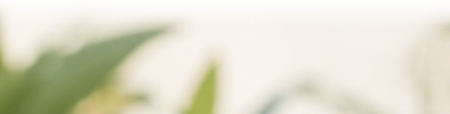
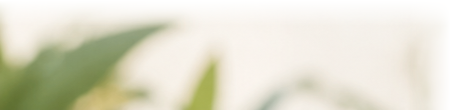
feat(movemeantnow): polish hero section with seamless portrait blend, typography & responsive layout

Changed region(s): [[0.9333, 0.1364, 1.0, 1.0], [0.2178, 0.2182, 0.3733, 0.3818]]

diff --git a/src/app/movemeantnow/MovemeantClient.tsx b/src/app/movemeantnow/MovemeantClient.tsx
@@ -202,18 +202,18 @@ export default function MovemeantClient() {
   };
 
   return (
-    <div className="min-h-screen bg-white text-[#18191B] selection:bg-[#D4CF50] selection:text-[#14170E] antialiased">
+    <div className="min-h-screen bg-white text-[#18191B] selection:bg-[#D4CF50] selection:text-[#14170E] antialiased overflow-x-hidden w-full max-w-[100vw]">
       {/* =========================================================================
           1. TOP ANNOUNCEMENT BANNER (Pixel-Accurate Olive/Moss Strip)
       ========================================================================= */}
       <aside
         onClick={() => handleOpenConsultation("threshold")}
-        className="w-full bg-[#DAD554] text-[#1E2413] py-2 px-4 text-center font-medium text-xs sm:text-[13px] tracking-normal transition-colors hover:bg-[#D2CE4F] cursor-pointer select-none"
+        className="w-full bg-[#DAD554] text-[#1E2413] py-2 px-3 sm:px-4 text-center font-medium text-[11px] sm:text-[13px] tracking-normal transition-colors hover:bg-[#D2CE4F] cursor-pointer select-none"
         aria-label="Cohort Enrollment Announcement"
       >
-        <div className="mx-auto flex max-w-7xl items-center justify-center gap-1.5">
+        <div className="mx-auto flex max-w-7xl items-center justify-center gap-1.5 flex-wrap">
           <span>Now Enrolling: Sept 29 Live Cohort | ICF + CCNI Accredited | $97 Introductory Rate</span>
-          <span className="font-semibold text-sm leading-none">→</span>
+          <span className="font-semibold text-sm leading-none shrink-0">→</span>
         </div>
       </aside>
 
@@ -225,14 +225,14 @@ export default function MovemeantClient() {
           {/* Movemeant Logo */}
           <Link
             href="/movemeantnow"
-            className="relative block h-11 w-40 sm:h-14 sm:w-52 focus-visible:outline-none focus-visible:ring-2 focus-visible:ring-[#8E8A24] rounded-sm transition-transform active:scale-[0.99]"
+            className="relative block h-10 w-36 sm:h-12 sm:w-48 focus-visible:outline-none focus-visible:ring-2 focus-visible:ring-[#8E8A24] rounded-sm transition-transform active:scale-[0.99]"
             aria-label="Movemeant Coaching and Consultancy Home"
           >
             <Image
               src="/assets/movemeant/logo.png"
               alt="Movemeant Coaching & Consultancy Logo"
               fill
-              sizes="(max-width: 640px) 160px, 210px"
+              sizes="(max-width: 640px) 150px, 200px"
               priority
               className="object-contain object-left"
             />
@@ -240,12 +240,12 @@ export default function MovemeantClient() {
 
           {/* Desktop Navigation Links */}
           <nav
-            className="hidden lg:flex items-center gap-8 text-[13px] font-bold tracking-wider uppercase text-[#222426]"
+            className="hidden lg:flex items-center gap-8 xl:gap-9 text-[13px] font-bold tracking-wider uppercase text-[#222426]"
             aria-label="Primary Navigation"
           >
             <Link
               href="/movemeantnow"
-              className="relative text-[#8E8A24] pb-1 transition-colors after:absolute after:bottom-0 after:left-0 after:right-0 after:h-[2.5px] after:bg-[#8E8A24]"
+              className="relative text-[#8E8A24] pb-1.5 transition-colors after:absolute after:bottom-0 after:left-0 after:right-0 after:h-[2px] after:bg-[#8E8A24]"
               aria-current="page"
             >
               HOME
@@ -283,23 +283,15 @@ export default function MovemeantClient() {
             </button>
           </nav>
 
-          {/* Quick Header CTA & Mobile Menu Toggle */}
-          <div className="flex items-center gap-3">
-            <button
-              onClick={() => handleOpenConsultation()}
-              className="hidden sm:inline-flex h-11 items-center justify-center rounded-full bg-[#18191B] px-5 text-xs font-bold uppercase tracking-wider text-white transition-all hover:bg-[#8E8A24] active:scale-[0.98] focus-visible:outline-none focus-visible:ring-2 focus-visible:ring-[#8E8A24]"
-            >
-              Inquire Now
-            </button>
-            <button
-              onClick={() => setIsMobileMenuOpen(!isMobileMenuOpen)}
-              className="lg:hidden p-2.5 rounded-lg border border-zinc-200 text-[#18191B] hover:bg-zinc-100 min-h-[44px] min-w-[44px] flex items-center justify-center focus-visible:outline-none focus-visible:ring-2 focus-visible:ring-[#8E8A24]"
-              aria-label="Toggle navigation menu"
-              aria-expanded={isMobileMenuOpen}
-            >
-              {isMobileMenuOpen ? <X className="h-5 w-5" /> : <Menu className="h-5 w-5" />}
-            </button>
-          </div>
+          {/* Mobile Menu Toggle Button */}
+          <button
+            onClick={() => setIsMobileMenuOpen(!isMobileMenuOpen)}
+            className="lg:hidden p-2.5 rounded-lg border border-zinc-200 text-[#18191B] hover:bg-zinc-100 min-h-[44px] min-w-[44px] flex items-center justify-center focus-visible:outline-none focus-visible:ring-2 focus-visible:ring-[#8E8A24]"
+            aria-label="Toggle navigation menu"
+            aria-expanded={isMobileMenuOpen}
+          >
+            {isMobileMenuOpen ? <X className="h-5 w-5" /> : <Menu className="h-5 w-5" />}
+          </button>
         </div>
 
         {/* Mobile Navigation Drawer */}
@@ -362,86 +354,77 @@ export default function MovemeantClient() {
       {/* =========================================================================
           3. MASTER HERO SECTION (Exact Reference Replication)
       ========================================================================= */}
-      <section className="relative overflow-hidden bg-[#FAF9F6] pt-10 sm:pt-14 pb-16 lg:pt-16 lg:pb-24 border-b border-zinc-200/60">
-        {/* Subtle authentic botanical bokeh foliage overlay at bottom-left */}
+      <section className="relative overflow-hidden bg-[#F5F3F1] border-b border-zinc-200/70 pt-8 sm:pt-12 lg:pt-8 pb-10 lg:pb-0">
+        {/* Subtle authentic botanical foliage overlay at bottom-left */}
         <div
-          className="pointer-events-none absolute bottom-0 left-0 w-80 sm:w-96 lg:w-[32rem] h-28 sm:h-36 z-0 select-none"
+          className="pointer-events-none absolute bottom-0 left-0 w-80 sm:w-96 lg:w-[450px] h-24 sm:h-28 z-0 select-none"
           aria-hidden="true"
         >
           <Image
             src="/assets/movemeant/hero-bg-foliage-left.png"
             alt=""
             fill
-            sizes="(max-width: 768px) 320px, 512px"
-            className="object-cover object-bottom opacity-75"
+            sizes="(max-width: 768px) 320px, 450px"
+            className="object-contain object-bottom-left"
           />
         </div>
 
-        <div className="relative z-10 mx-auto max-w-7xl px-6 lg:px-12">
-          <div className="grid grid-cols-1 items-center gap-10 lg:grid-cols-12 lg:gap-8 xl:gap-12">
+        <div className="relative z-10 mx-auto max-w-7xl pl-6 sm:pl-8 lg:pl-12 pr-6 sm:pr-8 lg:pr-0">
+          <div className="grid grid-cols-1 items-end gap-8 lg:grid-cols-12 lg:gap-4 xl:gap-6">
             {/* Left Narrative Column */}
-            <div className="lg:col-span-6 xl:col-span-7 flex flex-col justify-center">
+            <div className="lg:col-span-6 xl:col-span-6 flex flex-col justify-center pb-8 lg:pb-12 pt-4 lg:pt-6">
               {/* Eyebrow */}
-              <p className="text-xs sm:text-[13px] font-semibold tracking-[0.18em] uppercase text-[#6B7280] mb-4 sm:mb-6">
+              <p className="text-xs sm:text-[13px] font-semibold tracking-[0.18em] uppercase text-[#6E737B] mb-3 sm:mb-4">
                 ICF AND CCNI ACCREDITED COACH EDUCATION
               </p>
 
               {/* Main Headline */}
-              <h1 className="text-4xl sm:text-5xl lg:text-[4.15rem] font-bold tracking-tight text-[#111315] leading-[1.08]">
+              <h1 className="text-3xl sm:text-4xl lg:text-[2.65rem] xl:text-[3.15rem] font-bold tracking-tight text-[#18191B] leading-[1.12]">
                 Building People Who
-                <span className="block text-[#8E8A24] font-bold mt-1 sm:mt-2">
+                <span className="block text-[#8F9E30] font-bold mt-1 sm:mt-1.5">
                   Build What Matters
                 </span>
               </h1>
 
               {/* Subhead */}
-              <p className="mt-6 sm:mt-7 text-base sm:text-lg lg:text-[1.2rem] text-[#4A4E54] leading-relaxed max-w-xl font-normal">
+              <p className="mt-4 sm:mt-5 text-base sm:text-lg lg:text-[1.05rem] xl:text-[1.15rem] text-[#4A4E54] leading-relaxed max-w-lg font-normal">
                 Education and leadership development for today&apos;s leaders and tomorrow&apos;s coaches.
               </p>
 
               {/* Action Buttons Hub (Solid Primary Pill & Outlined Secondary Pill) */}
-              <div className="mt-8 sm:mt-10 flex flex-wrap items-center gap-4">
+              <div className="mt-6 sm:mt-8 flex flex-col xs:flex-row sm:flex-row items-stretch sm:items-center gap-3.5 sm:gap-4">
                 <button
                   onClick={() => handleOpenConsultation("threshold")}
-                  className="inline-flex items-center gap-2.5 rounded-full bg-[#D4CF50] hover:bg-[#C9C445] px-7 py-3.5 sm:px-8 sm:py-4 text-xs sm:text-sm font-bold uppercase tracking-wider text-[#14170E] transition-all duration-150 shadow-sm hover:shadow active:scale-[0.98] focus-visible:outline-none focus-visible:ring-2 focus-visible:ring-[#8E8A24] focus-visible:ring-offset-2"
+                  className="inline-flex items-center justify-center gap-2.5 rounded-full bg-[#D4CF50] hover:bg-[#C9C445] px-6 py-3.5 sm:px-7 sm:py-3.5 text-xs sm:text-[13px] font-bold uppercase tracking-wider text-[#14170E] transition-all duration-150 shadow-sm hover:shadow active:scale-[0.98] focus-visible:outline-none focus-visible:ring-2 focus-visible:ring-[#8E8A24] focus-visible:ring-offset-2"
                 >
                   <span>COACH EDUCATION</span>
                   <ArrowRight className="h-4 w-4" />
                 </button>
 
                 <button
-                  onClick={() => handleOpenConsultation("executive")}
-                  className="inline-flex items-center gap-2.5 rounded-full border-2 border-[#D4CF50] bg-white/80 hover:bg-[#D4CF50]/15 px-7 py-3.5 sm:px-8 sm:py-4 text-xs sm:text-sm font-bold uppercase tracking-wider text-[#14170E] transition-all duration-150 active:scale-[0.98] focus-visible:outline-none focus-visible:ring-2 focus-visible:ring-[#8E8A24] focus-visible:ring-offset-2"
+                  onClick={() => {
+                    setActivePathway("culture");
+                    scrollToPathways();
+                  }}
+                  className="inline-flex items-center justify-center gap-2.5 rounded-full border-2 border-[#D4CF50] bg-white/70 hover:bg-[#D4CF50]/15 px-6 py-3.5 sm:px-7 sm:py-3.5 text-xs sm:text-[13px] font-bold uppercase tracking-wider text-[#14170E] transition-all duration-150 active:scale-[0.98] focus-visible:outline-none focus-visible:ring-2 focus-visible:ring-[#8E8A24] focus-visible:ring-offset-2"
                 >
                   <span>ORGANIZATIONS</span>
                   <ArrowRight className="h-4 w-4" />
                 </button>
               </div>
-
-              {/* Trust Subtext */}
-              <div className="mt-6 flex items-center gap-2 text-xs text-[#6B7280]">
-                <Clock className="h-3.5 w-3.5 text-[#8E8A24]" />
-                <span>Next live cohort begins Sept 29 · Dual ICF & CCNI renewal accredited.</span>
-              </div>
             </div>
 
-            {/* Right Visual Column (Circular Backdrop + Koi Rivers + Botanical Foliage) */}
-            <div className="lg:col-span-6 xl:col-span-5 flex justify-center lg:justify-end">
-              <div className="relative w-full max-w-[520px] aspect-[574/460] overflow-hidden rounded-2xl sm:rounded-3xl shadow-[0_20px_50px_rgba(20,23,14,0.08)] bg-[#F4F3F0]">
+            {/* Right Visual Column (Circular Backdrop + Koi Rivers + Botanical Foliage seamlessly integrated) */}
+            <div className="lg:col-span-6 xl:col-span-6 flex justify-center lg:justify-end items-end self-end w-full">
+              <div className="relative w-full max-w-[360px] sm:max-w-[460px] lg:max-w-[514px] aspect-[514/460] mx-auto lg:mx-0">
                 <Image
-                  src="/assets/movemeant/hero-koi-portrait-clean.png"
+                  src="/assets/movemeant/hero-koi-portrait-seamless.png"
                   alt="Koi Rivers, M.A., ICF PCC — Founder & Chief Strategist, Movemeant Coaching & Consultancy"
                   fill
-                  sizes="(max-width: 768px) 100vw, (max-width: 1200px) 50vw, 520px"
                   priority
-                  className="object-cover object-center"
+                  sizes="(max-width: 1024px) 100vw, 514px"
+                  className="object-contain object-bottom-right"
                 />
-
-                {/* Subtle Floating Credential Badge on Desktop */}
-                <div className="absolute top-4 left-4 inline-flex items-center gap-1.5 rounded-full bg-white/90 backdrop-blur-md px-3.5 py-1 text-[11px] font-bold uppercase tracking-wider text-[#14170E] shadow-sm border border-zinc-200/80">
-                  <ShieldCheck className="h-3.5 w-3.5 text-[#8E8A24]" />
-                  <span>Koi Rivers, PCC</span>
-                </div>
               </div>
             </div>
           </div>
@@ -520,7 +503,7 @@ export default function MovemeantClient() {
 
           <div className="rounded-2xl border border-zinc-200/90 bg-white p-6 sm:p-8 shadow-sm">
             {/* Pathway Tabs */}
-            <div className="flex flex-wrap gap-2.5 border-b border-zinc-200 pb-5">
+            <div className="flex flex-col sm:flex-row flex-wrap gap-2.5 border-b border-zinc-200 pb-5">
               {(["executive", "threshold", "culture"] as FocusPathway[]).map((key) => {
                 const pathway = PATHWAYS[key];
                 const isActive = activePathway === key;
@@ -528,7 +511,7 @@ export default function MovemeantClient() {
                   <button
                     key={key}
                     onClick={() => setActivePathway(key)}
-                    className={`rounded-full px-5 py-2.5 text-xs sm:text-[13px] font-bold tracking-wide transition-all min-h-[44px] focus-visible:outline-none focus-visible:ring-2 focus-visible:ring-[#8E8A24] ${
+                    className={`rounded-full px-5 py-2.5 text-xs sm:text-[13px] font-bold tracking-wide transition-all min-h-[44px] text-center focus-visible:outline-none focus-visible:ring-2 focus-visible:ring-[#8E8A24] ${
                       isActive
                         ? "bg-[#8E8A24] text-white shadow-sm"
                         : "bg-zinc-100 text-[#4A4E54] hover:bg-zinc-200 hover:text-[#111315]"
